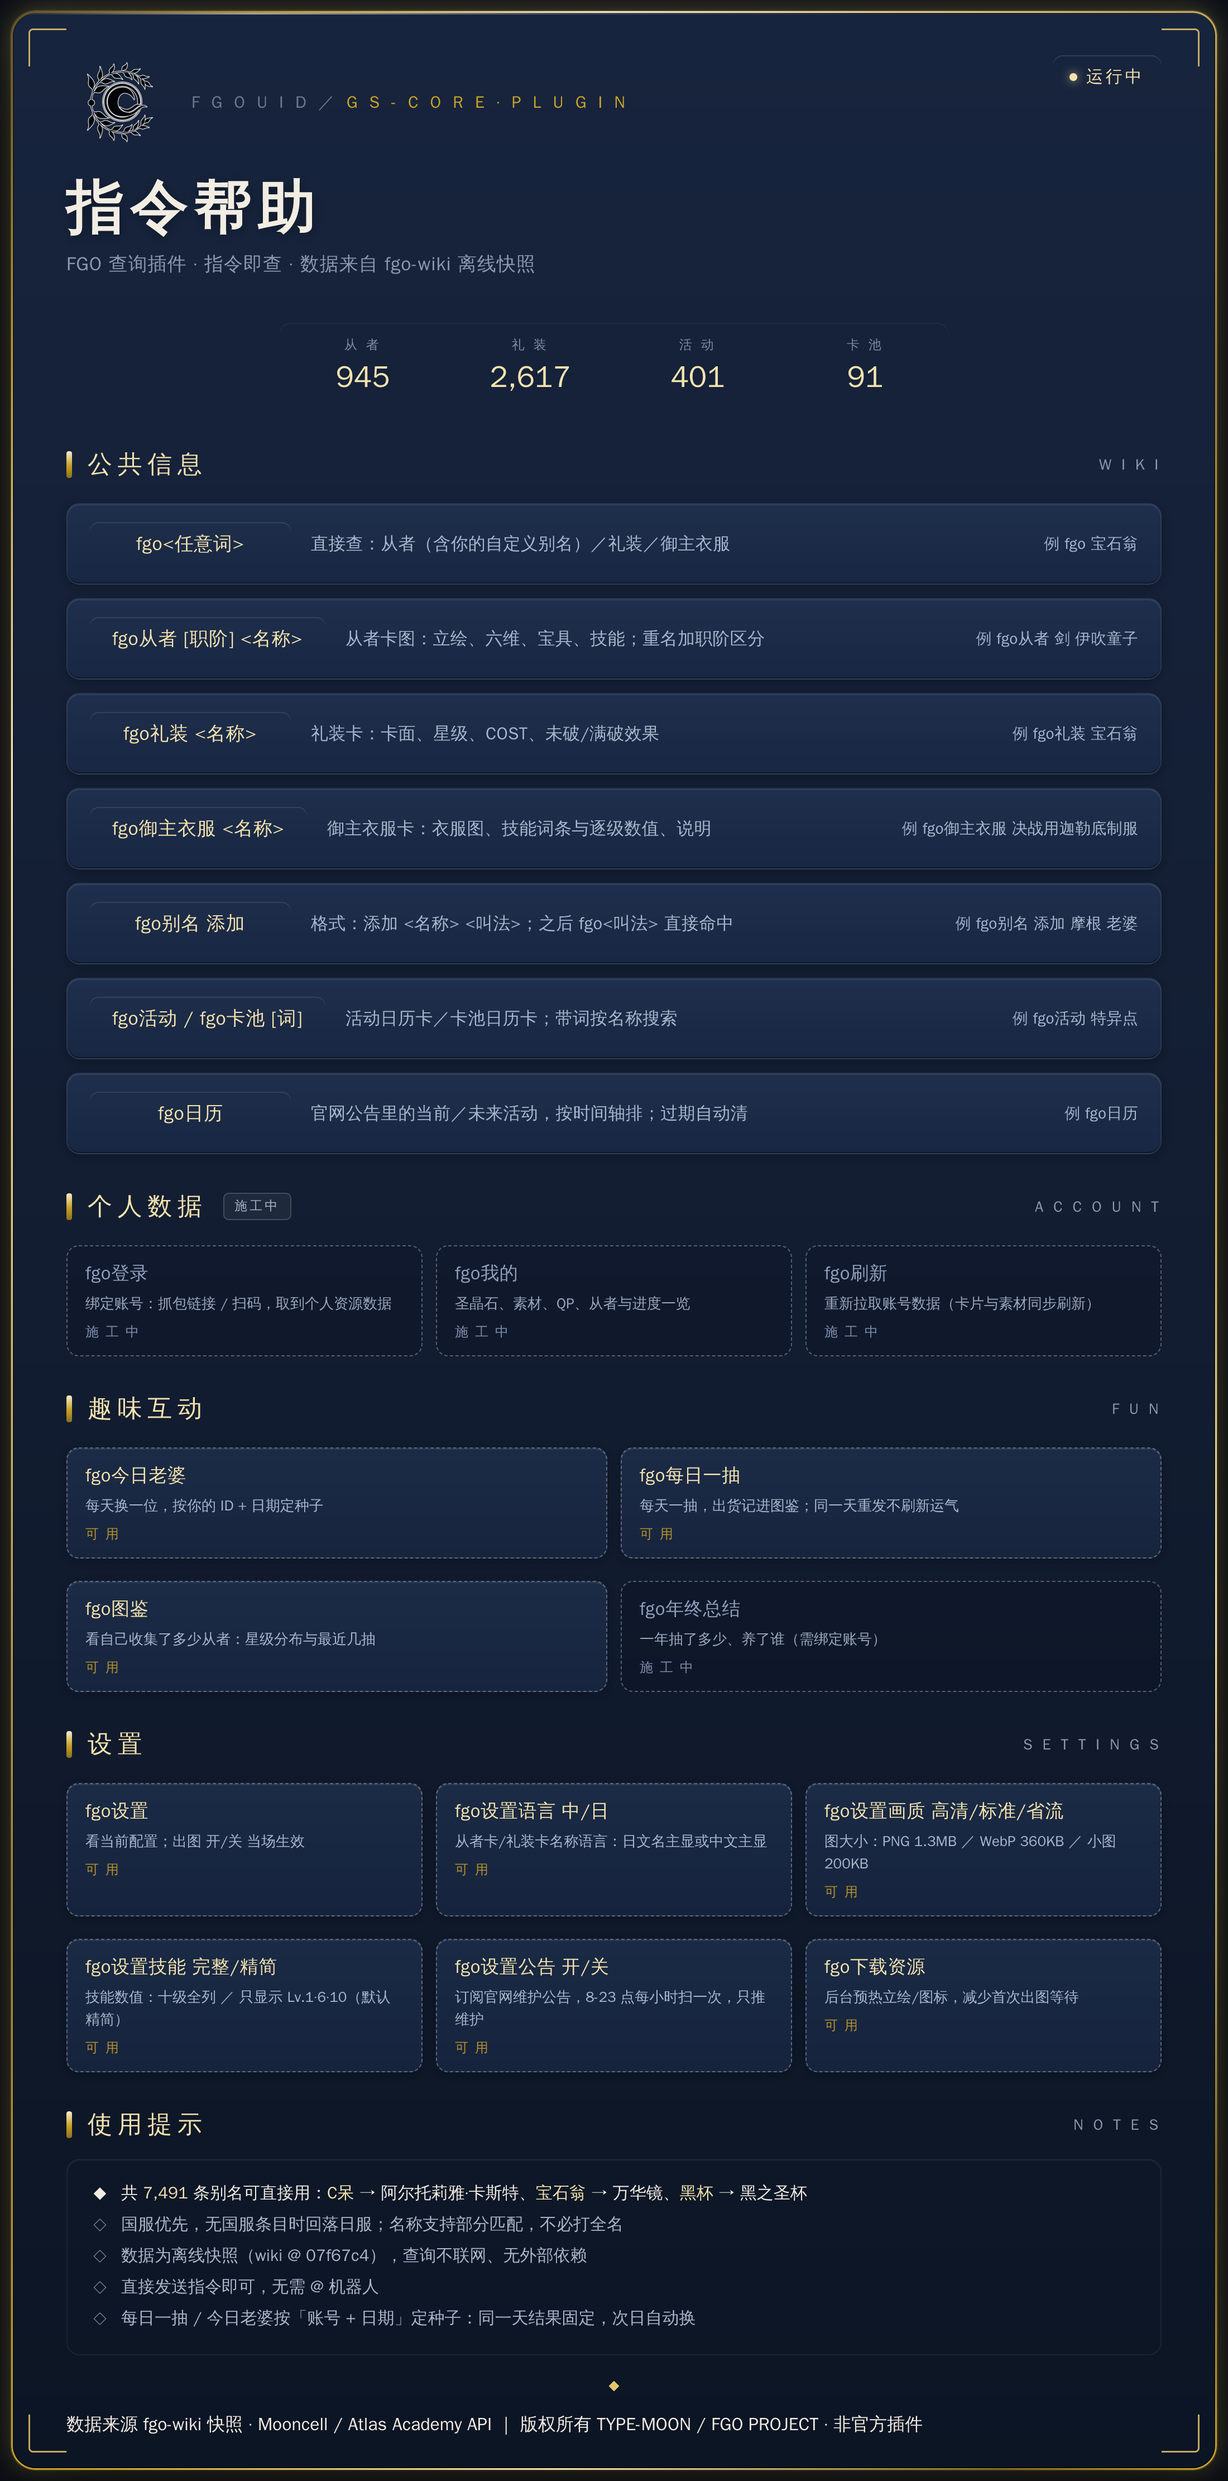
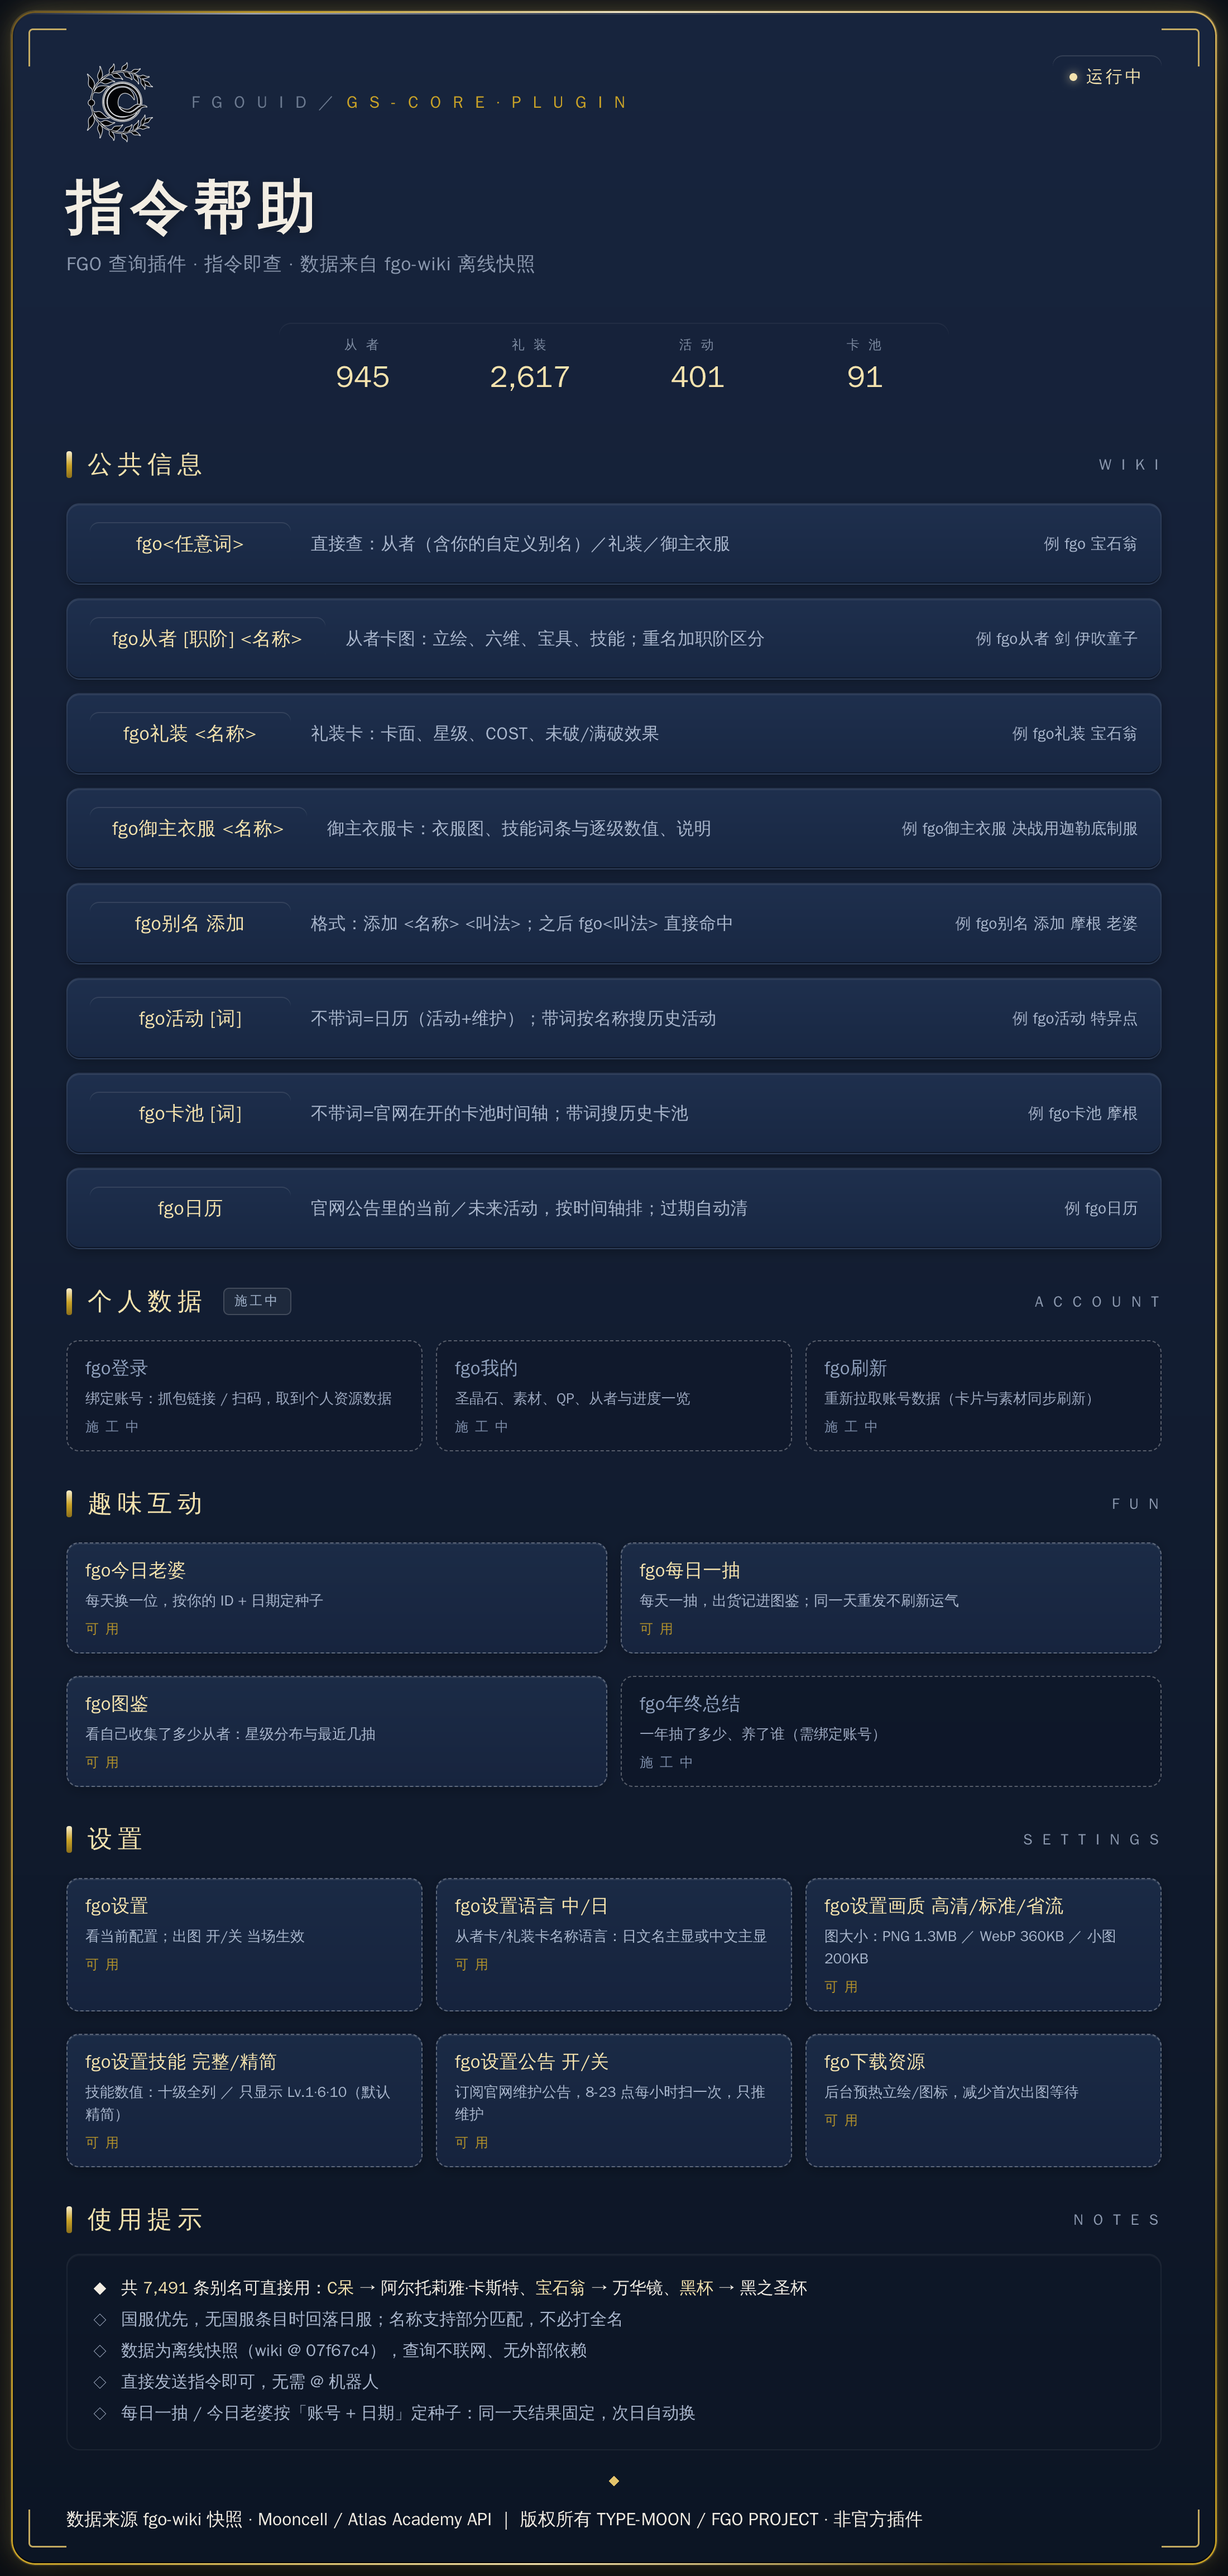
refactor(cmd): fgo活动 不带词时直接复用日历卡
- 活动列表卡和日历内容重复（都只有活动+维护），无关键词时统一走 fgo日历
- 带关键词仍按名称搜历史活动（旧列表卡保留）
- 帮助卡/README 文案同步：fgo活动 [词] / fgo卡池 [词]

diff --git a/core/help_card.py b/core/help_card.py
@@ -47,8 +47,10 @@ SECTION_WIKI = {
          "e": "fgo御主衣服 决战用迦勒底制服"},
         {"k": "fgo别名 添加", "d": "格式：添加 &lt;名称&gt; &lt;叫法&gt;；之后 fgo&lt;叫法&gt; 直接命中",
          "e": "fgo别名 添加 摩根 老婆"},
-        {"k": "fgo活动 / fgo卡池 [词]", "d": "活动日历卡／卡池日历卡；带词按名称搜索",
+        {"k": "fgo活动 [词]", "d": "不带词=日历（活动+维护）；带词按名称搜历史活动",
          "e": "fgo活动 特异点"},
+        {"k": "fgo卡池 [词]", "d": "不带词=官网在开的卡池时间轴；带词搜历史卡池",
+         "e": "fgo卡池 摩根"},
         {"k": "fgo日历", "d": "官网公告里的当前／未来活动，按时间轴排；过期自动清",
          "e": "fgo日历"},
     ],

diff --git a/__init__.py b/__init__.py
@@ -253,6 +253,8 @@ async def fgo_mystic(bot: Bot, ev: Event):
 @sv.on_command("fgo活动", block=True)
 async def fgo_event(bot: Bot, ev: Event):
     kw = (ev.text or "").strip()
+    if not kw:                       # 不带词 = 日历（活动 + 维护），不再单独出一张列表卡
+        return await fgo_calendar(bot, ev)
     rows = search_events(kw)
     if not image_on(ev):
         return await bot.send(format_events(rows))
